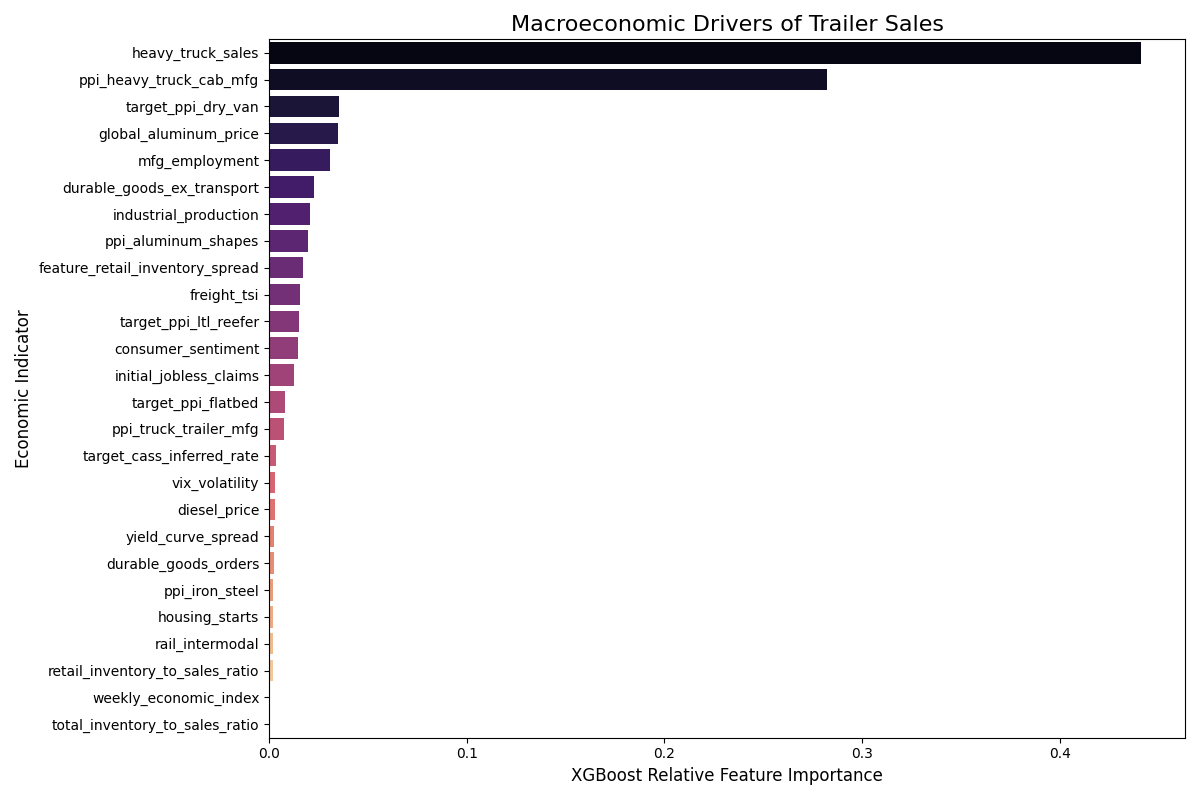
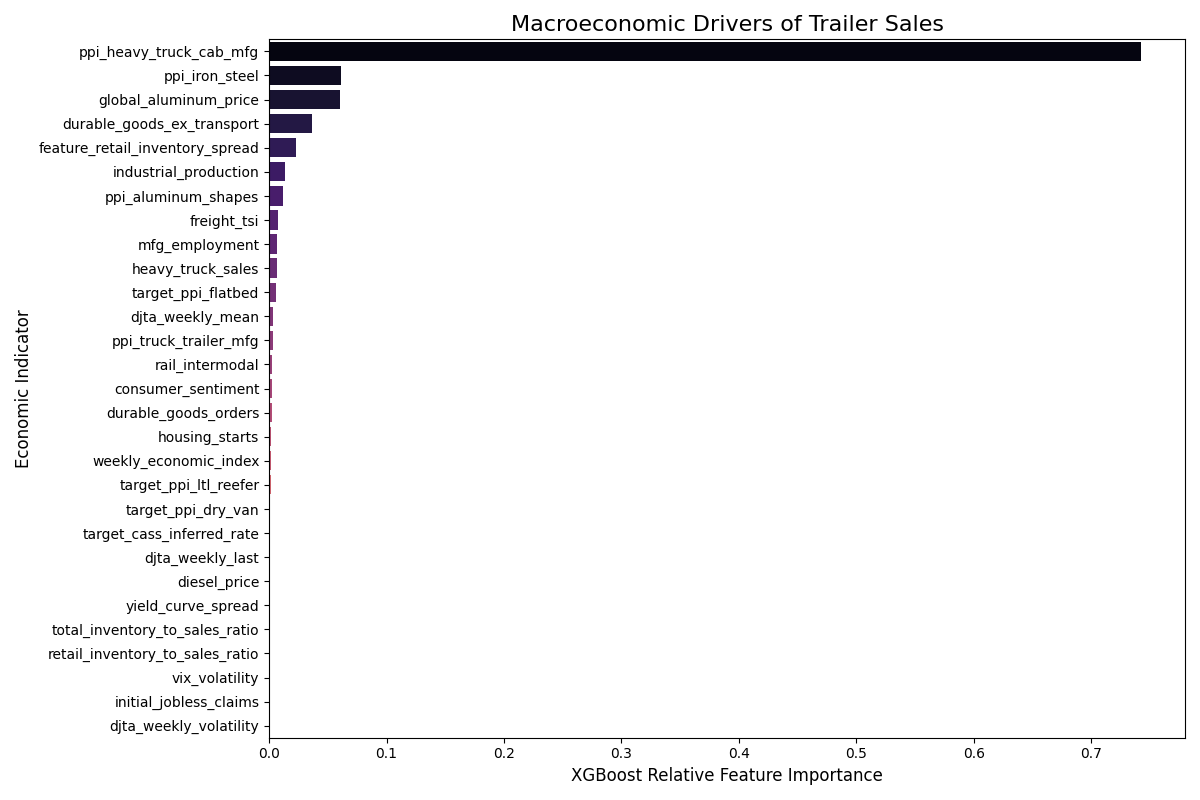
Add DJTA to feature store.  Also includes resampling daily stock data to weekly aggregates (mean, std, last)

Changed region(s): [[0.0308, 0.0625, 0.9558, 0.9375], [0.7092, 0.9375, 0.74, 0.9688]]

diff --git a/src/freight_market_sensing/features.py b/src/freight_market_sensing/features.py
@@ -18,13 +18,50 @@ class FeatureStore:
 
         # Iterate through every .parquet file in the directory
         for file_path in self.data_dir.glob("*.parquet"):
-            feature_name = file_path.stem  # e.g., 'diesel_price'
-
+            feature_name = file_path.stem  # e.g., 'diesel_price' or 'djta'
+            
             # Load the file
             df = pd.read_parquet(file_path)
 
-            # Rename the generic 'value' column to the actual feature name
-            df = df.rename(columns={'value': feature_name})
+            # =======================================================
+            # RESILIENT DATE HANDLING
+            # =======================================================
+            # 1. If 'date' isn't a column, check if it's trapped in the index
+            if 'date' not in df.columns and 'observation_date' not in df.columns:
+                df = df.reset_index()
+
+            # 2. Standardize all column names to lowercase to catch 'Date' or 'DATE'
+            df.columns = [col.lower() for col in df.columns]
+
+            # 3. If FRED named it 'observation_date', rename it to 'date'
+            if 'observation_date' in df.columns:
+                df = df.rename(columns={'observation_date': 'date'})
+            # =======================================================
+
+            # Ensure 'date' is a proper datetime object
+            df['date'] = pd.to_datetime(df['date'])
+
+            # =======================================================
+            # DJTA INTERCEPTION: Convert Daily Stock Data to Weekly
+            # =======================================================
+            if 'dow_jones_transportation_avg' in feature_name.lower():
+                print("Intercepting DJTA: Downsampling from Daily to Weekly (Friday)...")
+                
+                # Temporarily set date as index for resampling
+                df = df.set_index('date')
+                
+                # Create different resampling features
+                djta_mean = df.resample('W-FRI').mean().rename(columns={'value': 'djta_weekly_mean'})
+                djta_vol = df.resample('W-FRI').std().rename(columns={'value': 'djta_weekly_volatility'})
+                djta_last = df.resample('W-FRI').last().rename(columns={'value': 'djta_weekly_last'})
+                
+                # Recombine all three and reset the index back to a 'date' column
+                df = pd.concat([djta_mean, djta_vol, djta_last], axis=1).reset_index()
+
+            else:
+                # For all standard features, just rename the generic 'value' column
+                df = df.rename(columns={'value': feature_name})
+            # =======================================================
 
             # Merge into the master dataframe
             if master_df.empty:
@@ -33,8 +70,8 @@ class FeatureStore:
                 # Outer join ensures we don't lose any dates (Weekly or Monthly)
                 master_df = pd.merge(master_df, df, on='date', how='outer')
 
-        # Sort chronologically from oldest to newest
-        master_df = master_df.sort_index()
+        # Set the date as the true index and sort chronologically
+        master_df = master_df.set_index('date').sort_index()
         return master_df
 
     def engineer_business_logic(self, df) -> pd.DataFrame:

diff --git a/src/freight_market_sensing/feature_analysis.py b/src/freight_market_sensing/feature_analysis.py
@@ -62,7 +62,7 @@ def rank_features():
     plt.tight_layout()
 
     plt.savefig('../../trailer_sales_drivers.png')
-    print("\nVisual saved as 'truck_sales_drivers.png' in your project root.")
+    print("\nVisual saved as 'trailer_sales_drivers04202026.png' in your project root.")
 
 
 if __name__ == "__main__":

diff --git a/src/freight_market_sensing/data_ingestion.py b/src/freight_market_sensing/data_ingestion.py
@@ -32,6 +32,7 @@ SERIES_MAP = {
     'VIXCLS': 'vix_volatility',
     'T10Y2Y': 'yield_curve_spread',
     'ICSA': 'initial_jobless_claims',
+    'DJTA': 'dow_jones_transportation_avg',
 
     # MEDIUM INDICATORS
     'HOUST': 'housing_starts',
